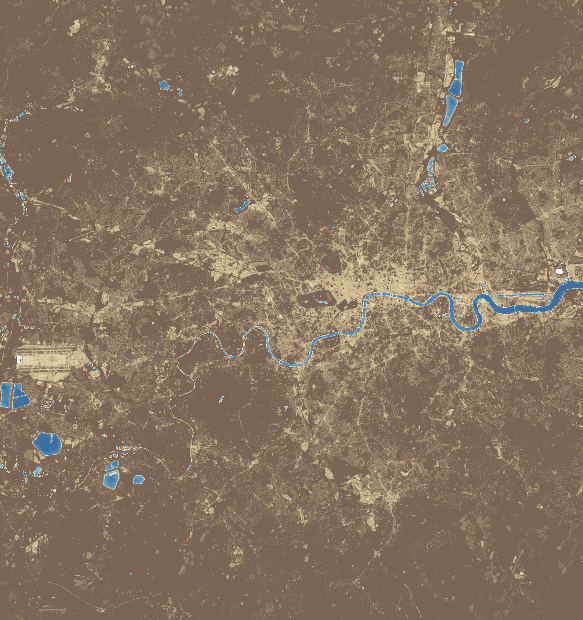
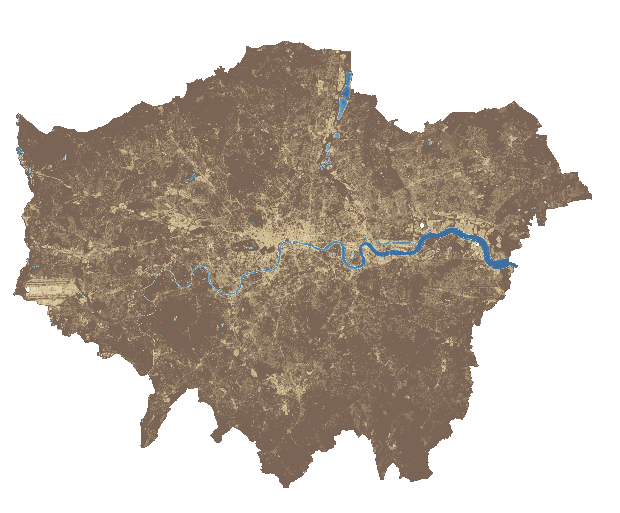
Update TerraHeat London data coverage

diff --git a/terraheat/terraheat-mapbox.js b/terraheat/terraheat-mapbox.js
@@ -23,8 +23,8 @@
   ];
   const storySteps=[
     {eyebrow:'SEVEN DAYS OF EXTREME HEAT',title:'London, July 2022',copy:'A seven-day journey moves from the planetary heat field into one city. Air temperature, satellite surface temperature and environmental context are kept separate so that each layer says only what it can support.',fact:'13–19 July 2022 · ERA5-Land, Landsat, MODIS, WOW and AlphaEarth research inputs.',enter:()=>{resetGlobal(false,false);setField('era5',0)}},
-    {eyebrow:'01 · THE REGIONAL FIELD',title:'Heat gathers over western Europe',copy:'ERA5-Land daily maximum 2 m air temperature shows the event at regional scale. Moving from 13 to 19 July reveals the build-up; this is reanalysis data at roughly 0.1°, not a street-level observation.',fact:'On 19 July, the hottest London grid cell in this extract reached 36.8 °C; the mean of grid-cell daily maxima was 35.5 °C.',enter:()=>{resetGlobal(false,false);setField('era5',era5.frames.length-1);map.flyTo({center:[-1.8,51.8],zoom:4.4,pitch:10,bearing:0,duration:1800,essential:true})}},
-    {eyebrow:'02 · ENTER THE CITY',title:'One heatwave, many local surfaces',copy:'The London observatory combines a 35-cell ERA5-Land extract with 75 registered Met Office WOW sites. Together they provide regional continuity and a denser observational network, while retaining their different sampling and quality constraints.',fact:'The weather chart in the London panel shows the rise in grid-mean daily maximum air temperature from 27.9 °C on 17 July to 35.5 °C on 19 July.',enter:()=>selectCity(cities.find(city=>city.name==='London'))},
+    {eyebrow:'01 · THE REGIONAL FIELD',title:'Heat gathers over western Europe',copy:'ERA5-Land daily maximum 2 m air temperature shows the event at regional scale. Moving from 13 to 19 July reveals the build-up; this is reanalysis data at roughly 0.1°, not a street-level observation.',fact:'On 19 July, the hottest London grid cell in this extract reached 38.2 °C; the mean of grid-cell daily maxima was 37.3 °C.',enter:()=>{resetGlobal(false,false);setField('era5',era5.frames.length-1);map.flyTo({center:[-1.8,51.8],zoom:4.4,pitch:10,bearing:0,duration:1800,essential:true})}},
+    {eyebrow:'02 · ENTER THE CITY',title:'One heatwave, many local surfaces',copy:'The London observatory combines a 35-cell full-variable weather extract with 69 registered Met Office WOW sites. Together they provide regional continuity and a denser observational network, while retaining their different sampling and quality constraints.',fact:'The weather archive includes temperature, humidity, rainfall, radiation and wind; the chart shows the rise in grid-mean daily maximum air temperature during 13–19 July.',enter:()=>selectCity(cities.find(city=>city.name==='London'))},
     {eyebrow:'03 · THE SURFACE FROM ORBIT',title:'18 July at neighbourhood scale',copy:'Landsat 9 observed the city during the event. Warm roofs, paved surfaces, parks and water form a fine-grained thermal pattern that the regional air-temperature grid cannot show.',fact:'The product is delivered on a 30 m grid, but its thermal sensing is natively coarser. Display interpolation does not create new measured detail.',enter:()=>{selectCity(cities.find(city=>city.name==='London'));activateResearchLayer('none');activateLondonScene('event')}},
     {eyebrow:'04 · ENVIRONMENTAL CONTEXT',title:'Greenness and water reshape the pattern',copy:'Switching to summer NDVI and NDWI separates vegetation and surface-water signals from temperature. These layers can explain spatial contrasts, but by themselves they do not prove a causal cooling effect.',fact:'Use the London panel to compare summer LST, NDVI, NDWI, elevation and the AEF representation without leaving the same map extent.',enter:()=>{selectCity(cities.find(city=>city.name==='London'));activateResearchLayer('ndvi')}},
     {eyebrow:'05 · THE RESEARCH FRONTIER',title:'From heat surface to unequal exposure',copy:'The current archive provides environmental and meteorological inputs. Heatwave prediction, population exposure and spatial inequality remain explicit future modules until model outputs, validation, uncertainty and matched social data are available.',fact:'Reserved next: forecast skill and uncertainty · population-weighted exposure · deprivation, age, housing and green-space distribution.',enter:()=>{selectCity(cities.find(city=>city.name==='London'));activateResearchLayer('aef');$('#analysis').scrollTo({top:$('#analysis').scrollHeight,behavior:'smooth'})}}
@@ -256,10 +256,10 @@
     const labels=['2 M AIR','SKIN LST','SURFACE EXCESS','HOT STEPS ≥35°C'];document.querySelectorAll('.metric-grid span').forEach((node,index)=>node.textContent=labels[index]);
   }
   function populateLondonResearch(){
-    const event=londonResearch.weather.event,last=event.at(-1),labels=['GRID MEAN TMAX','HOTTEST GRID CELL','WOW SITES','RESEARCH LAYERS'],values=[`${last.meanTmax.toFixed(1)} °C`,`${last.spatialMax.toFixed(1)} °C`,String(londonResearch.stations.count),String(londonResearch.layers.length+1)];
+    const event=londonResearch.weather.event,last=event.at(-1),labels=['GRID MEAN TMAX','HOTTEST GRID CELL','MEAN WIND','DAILY RAIN'],values=[`${last.meanTmax.toFixed(1)} °C`,`${last.spatialMax.toFixed(1)} °C`,`${last.windSpeed.toFixed(1)} km/h`,`${last.precipitation.toFixed(1)} mm`];
     document.querySelectorAll('.metric-grid span').forEach((node,index)=>node.textContent=labels[index]);['metric-at','metric-lst','metric-delta','metric-hot'].forEach((id,index)=>{$(`#${id}`).textContent=values[index]});
-    $('#chart-period').textContent='13 → 19 JUL 2022';$('#analysis-status').textContent='LONDON HEATWAVE DOSSIER';$('#analysis-story').textContent='Across the 35-cell ERA5-Land extract, mean daily maximum air temperature rose from 27.9 °C on 17 July to 35.5 °C on 19 July. The map connects this regional sequence to the 18 July Landsat surface scene and local environmental context.';
-    $('#analysis-note').textContent='ERA5-Land is reanalysis at 0.1°. Landsat and MODIS measure land-surface temperature under clear-sky conditions, not 2 m air temperature. Each research layer preserves its own date, resolution and limitation.';
+    $('#chart-period').textContent='13 → 19 JUL 2022';$('#analysis-status').textContent='LONDON HEATWAVE DOSSIER';$('#analysis-story').textContent='Across 35 target cells intersecting the GLA boundary, the archive tracks air temperature together with humidity, rainfall, radiation and wind. The map connects this regional sequence to the 18 July Landsat surface scene and local environmental context.';
+    $('#analysis-note').textContent='Weather values use the Open-Meteo seamless historical archive at the documented target cells. Landsat and MODIS measure land-surface temperature under clear-sky conditions, not 2 m air temperature. Each layer preserves its own date, resolution and limitation.';
   }
   function renderLondonResearch(){
     $('#wow-station-count').textContent=londonResearch.stations.count;

diff --git a/terraheat/index.html b/terraheat/index.html
@@ -118,14 +118,14 @@
           <button type="button" data-research-layer="ndvi"><i class="research-swatch ndvi"></i><span><b>Vegetation</b><small>NDVI · 500 m</small></span></button>
           <button type="button" data-research-layer="ndwi"><i class="research-swatch ndwi"></i><span><b>Water signal</b><small>NDWI · 30 m</small></span></button>
           <button type="button" data-research-layer="elevation"><i class="research-swatch elevation"></i><span><b>Elevation</b><small>NASADEM · 30 m</small></span></button>
-          <button type="button" data-research-layer="aef"><i class="research-swatch aef"></i><span><b>AEF embedding</b><small>64D projection · 100 m</small></span></button>
+          <button type="button" data-research-layer="aef"><i class="research-swatch aef"></i><span><b>AEF embedding</b><small>64D projection · 10 m source</small></span></button>
           <button type="button" data-research-layer="none"><i class="research-swatch none"></i><span><b>Event LST</b><small>Return to Landsat</small></span></button>
         </div>
         <label class="research-stations"><span><b>WOW station network</b><small><em id="wow-station-count">—</em> registered sites in the London extract</small></span><input id="research-stations-switch" type="checkbox"><i></i></label>
         <div class="research-layer-note" id="research-layer-note">Select a research layer to compare environmental context with the July 2022 heat surface.</div>
         <div class="research-weather">
           <div class="research-chart-head"><span>13–19 JUL 2022</span><b>Heat building across London</b></div>
-          <svg id="research-weather-chart" viewBox="0 0 328 154" role="img" aria-label="ERA5-Land daily maximum air temperature across London"></svg>
+          <svg id="research-weather-chart" viewBox="0 0 328 154" role="img" aria-label="Daily maximum air temperature across Greater London target cells"></svg>
           <div class="research-chart-key"><span><i></i>London grid mean Tmax</span><span><i></i>Hottest grid cell</span></div>
         </div>
         <div class="research-pipeline" id="research-pipeline" aria-label="Future research modules"></div>
